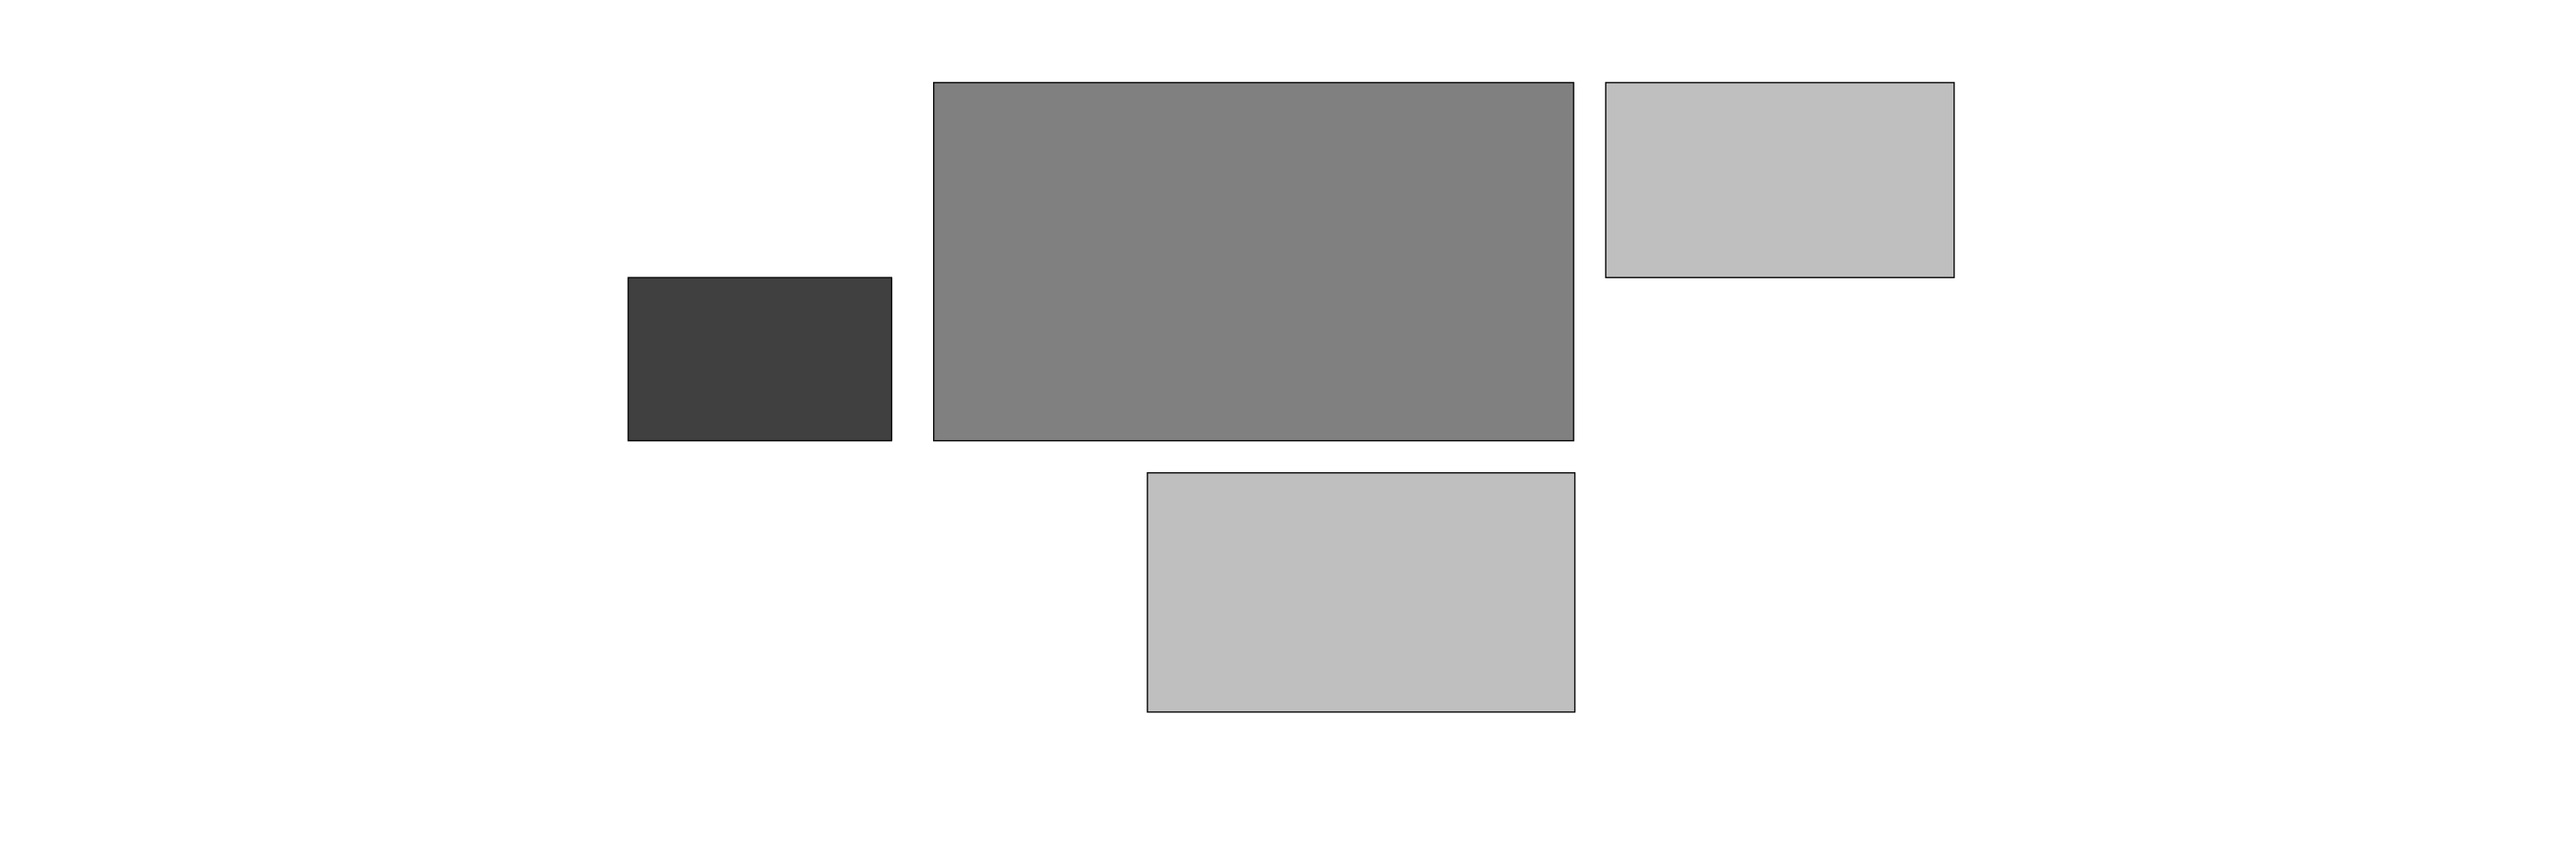
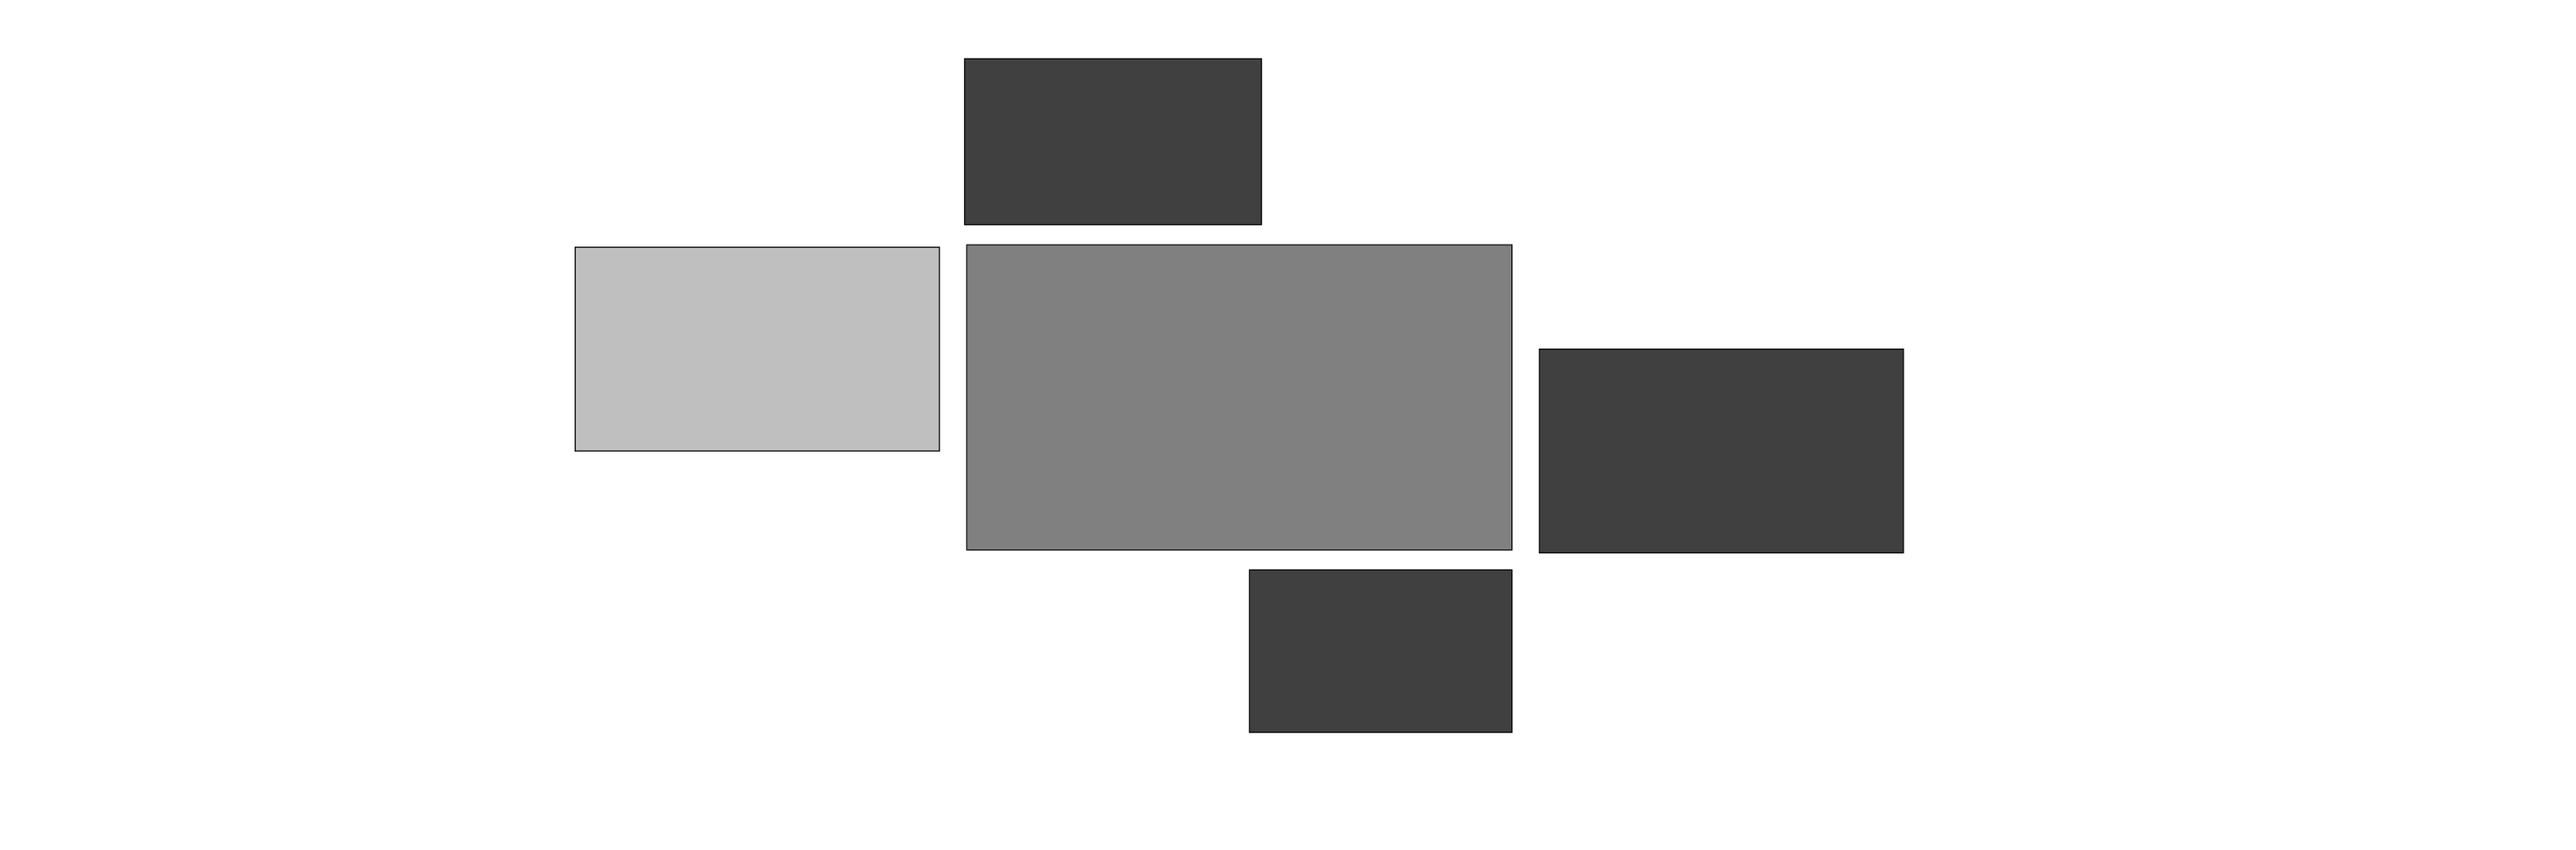
Filter OK

Changed region(s): [[0.2175, 0.0607, 0.7769, 0.8797]]

diff --git a/public/js/main.js b/public/js/main.js
@@ -100,7 +100,7 @@ if (module.hot) {(function () {  module.hot.accept()
 })()}
 },{"./views/card-view.vue":16,"./views/home-view.vue":17,"blueimp-md5":23,"jquery":49,"perfect-scrollbar":55,"underscore":91,"vue":94,"vue-hot-reload-api":93,"vueify/lib/insert-css":95}],2:[function(require,module,exports){
 var __vueify_insert__ = require("vueify/lib/insert-css")
-var __vueify_style__ = __vueify_insert__.insert("/* line 2, stdin */\n.filter {\n  width: 100%;\n  height: 100%; }\n  /* line 7, stdin */\n  .filter.filter-group-transition {\n    -webkit-transition: opacity .3s ease .4s, -webkit-transform .3s ease .4s;\n    transition: opacity .3s ease .4s, -webkit-transform .3s ease .4s;\n    transition: opacity .3s ease .4s, transform .3s ease .4s;\n    transition: opacity .3s ease .4s, transform .3s ease .4s, -webkit-transform .3s ease .4s;\n    -webkit-transform: translateY(0%);\n            transform: translateY(0%);\n    opacity: 1; }\n  /* line 12, stdin */\n  .filter.filter-group-enter, .filter.filter-group-leave {\n    opacity: 1;\n    -webkit-transform: translateY(100%);\n            transform: translateY(100%); }\n  /* line 16, stdin */\n  .filter.filter-group-leave {\n    -webkit-transition: opacity .1s linear, -webkit-transform .1s linear;\n    transition: opacity .1s linear, -webkit-transform .1s linear;\n    transition: opacity .1s linear, transform .1s linear;\n    transition: opacity .1s linear, transform .1s linear, -webkit-transform .1s linear; }\n")
+var __vueify_style__ = __vueify_insert__.insert("/* line 2, stdin */\n.filter {\n  width: 100%;\n  height: 100%;\n  /*background-image: url(../images/filter1.png);\n  background-size: 100%;*/ }\n  /* line 7, stdin */\n  .filter.filter-group-transition {\n    -webkit-transition: opacity .3s ease .4s, -webkit-transform .3s ease .4s;\n    transition: opacity .3s ease .4s, -webkit-transform .3s ease .4s;\n    transition: opacity .3s ease .4s, transform .3s ease .4s;\n    transition: opacity .3s ease .4s, transform .3s ease .4s, -webkit-transform .3s ease .4s;\n    -webkit-transform: translateY(0%);\n            transform: translateY(0%);\n    opacity: 1; }\n  /* line 12, stdin */\n  .filter.filter-group-enter, .filter.filter-group-leave {\n    opacity: 1;\n    -webkit-transform: translateY(100%);\n            transform: translateY(100%); }\n  /* line 16, stdin */\n  .filter.filter-group-leave {\n    -webkit-transition: opacity .1s linear, -webkit-transform .1s linear;\n    transition: opacity .1s linear, -webkit-transform .1s linear;\n    transition: opacity .1s linear, transform .1s linear;\n    transition: opacity .1s linear, transform .1s linear, -webkit-transform .1s linear; }\n")
 
 
 
@@ -134,31 +134,33 @@ var __vueify_style__ = __vueify_insert__.insert("/* line 2, stdin */\n.filter {\
 
 var $$$ = require('jquery')
 var marked = require('marked')
+var _ = require('underscore')
+
 module.exports = {
-  props: ['height', 'width', 'naves', 'playing'],
+  props: ['height', 'width', 'naves', 'playing', 'filter'],
   data: function(){
     return {
       medias: [],
       sizes: [{
-        height: 47,
-        x: 36.2,
-        y: 10.4
+        height: 39.8,
+        x: 37.5,
+        y: 31.2
       },{
-        height: 21,
-        x: 24.3,
-        y: 35
+        height: 26.4,
+        x: 22.3,
+        y: 31.5
       },{
-        height: 30.8,
-        x: 44.4,
-        y: 59.8
+        height: 21.2,
+        x: 48.4,
+        y: 72.7
       },{
-        height: 25,
-        x: 62.3,
-        y: 10.4
+        height: 26.7,
+        x: 59.6,
+        y: 44.4
       },{
-        height: 25,
-        x: 62.3,
-        y: 10.4
+        height: 22.5,
+        x: 37.4,
+        y: 7.3
       }]
     }
   },
@@ -169,23 +171,28 @@ module.exports = {
     
   },
   created: function () {
-    for (var i = 0; i < this.naves[5].media.length; i++) {
-      var med = {
-        id: this.naves[5].media[i].id + '-filter',
-        card: this.naves[5].media[i].id,
-        nav: this.naves[5].media[i].nav,
-        width: this.naves[5].media[i].width,
-        height: this.sizes[i].height,
-        x: this.sizes[i].x,
-        y: this.sizes[i].y,
-        imgs: [],
-        nome: "",
-        shadow: this.naves[5].media[i].shadow,
-        filter: true,
-        video: this.naves[5].media[i].video
+    for (var i = 0; i < this.naves.length; i++) {
+      if (this.naves[i].headers.nome === this.filter) {
+        for (var o = 0; o < this.naves[i].media.length; o++) {
+          var med = {
+            id: this.naves[i].media[o].id + '-filter',
+            card: this.naves[i].media[o].id,
+            nav: this.naves[i].media[o].nav,
+            width: this.naves[i].media[o].width,
+            height: this.sizes[o].height,
+            x: this.sizes[o].x,
+            y: this.sizes[o].y,
+            imgs: [],
+            nome: "",
+            shadow: this.naves[i].media[o].shadow,
+            filter: true,
+            video: this.naves[i].media[o].video
+          }
+          this.medias.push(med)
+        }
       }
-      this.medias.push(med)
     }
+    
   },
   attached: function () {
     
@@ -207,7 +214,7 @@ if (module.hot) {(function () {  module.hot.accept()
   hotAPI.install(require("vue"), true)
   if (!hotAPI.compatible) return
   module.hot.dispose(function () {
-    __vueify_insert__.cache["/* line 2, stdin */\n.filter {\n  width: 100%;\n  height: 100%; }\n  /* line 7, stdin */\n  .filter.filter-group-transition {\n    -webkit-transition: opacity .3s ease .4s, -webkit-transform .3s ease .4s;\n    transition: opacity .3s ease .4s, -webkit-transform .3s ease .4s;\n    transition: opacity .3s ease .4s, transform .3s ease .4s;\n    transition: opacity .3s ease .4s, transform .3s ease .4s, -webkit-transform .3s ease .4s;\n    -webkit-transform: translateY(0%);\n            transform: translateY(0%);\n    opacity: 1; }\n  /* line 12, stdin */\n  .filter.filter-group-enter, .filter.filter-group-leave {\n    opacity: 1;\n    -webkit-transform: translateY(100%);\n            transform: translateY(100%); }\n  /* line 16, stdin */\n  .filter.filter-group-leave {\n    -webkit-transition: opacity .1s linear, -webkit-transform .1s linear;\n    transition: opacity .1s linear, -webkit-transform .1s linear;\n    transition: opacity .1s linear, transform .1s linear;\n    transition: opacity .1s linear, transform .1s linear, -webkit-transform .1s linear; }\n"] = false
+    __vueify_insert__.cache["/* line 2, stdin */\n.filter {\n  width: 100%;\n  height: 100%;\n  /*background-image: url(../images/filter1.png);\n  background-size: 100%;*/ }\n  /* line 7, stdin */\n  .filter.filter-group-transition {\n    -webkit-transition: opacity .3s ease .4s, -webkit-transform .3s ease .4s;\n    transition: opacity .3s ease .4s, -webkit-transform .3s ease .4s;\n    transition: opacity .3s ease .4s, transform .3s ease .4s;\n    transition: opacity .3s ease .4s, transform .3s ease .4s, -webkit-transform .3s ease .4s;\n    -webkit-transform: translateY(0%);\n            transform: translateY(0%);\n    opacity: 1; }\n  /* line 12, stdin */\n  .filter.filter-group-enter, .filter.filter-group-leave {\n    opacity: 1;\n    -webkit-transform: translateY(100%);\n            transform: translateY(100%); }\n  /* line 16, stdin */\n  .filter.filter-group-leave {\n    -webkit-transition: opacity .1s linear, -webkit-transform .1s linear;\n    transition: opacity .1s linear, -webkit-transform .1s linear;\n    transition: opacity .1s linear, transform .1s linear;\n    transition: opacity .1s linear, transform .1s linear, -webkit-transform .1s linear; }\n"] = false
     document.head.removeChild(__vueify_style__)
   })
   if (!module.hot.data) {
@@ -216,7 +223,7 @@ if (module.hot) {(function () {  module.hot.accept()
     hotAPI.update("_v-7303ed86", module.exports, (typeof module.exports === "function" ? module.exports.options : module.exports).template)
   }
 })()}
-},{"./media.vue":9,"jquery":49,"marked":50,"vue":94,"vue-hot-reload-api":93,"vueify/lib/insert-css":95}],3:[function(require,module,exports){
+},{"./media.vue":9,"jquery":49,"marked":50,"underscore":91,"vue":94,"vue-hot-reload-api":93,"vueify/lib/insert-css":95}],3:[function(require,module,exports){
 var __vueify_insert__ = require("vueify/lib/insert-css")
 var __vueify_style__ = __vueify_insert__.insert("/* line 3, stdin */\n#menumodal {\n  position: absolute;\n  right: 8%;\n  top: 6%; }\n\n/* line 9, stdin */\nsvg path {\n  fill: #06303c;\n  opacity: 1;\n  -webkit-transition: opacity .2s;\n  transition: opacity .2s; }\n\n/* line 15, stdin */\nsvg:hover path {\n  opacity: .7; }\n\n/* line 21, stdin */\nbutton:disabled {\n  cursor: default; }\n  /* line 23, stdin */\n  button:disabled path {\n    fill: gray;\n    opacity: .8 !important; }\n\n/* line 28, stdin */\nbutton:focus {\n  outline: none; }\n\n/* line 34, stdin */\n.passo h3 {\n  margin-top: 0;\n  margin-bottom: 40px; }\n\n/* line 38, stdin */\n.passo strong {\n  font-family: 'treta';\n  font-size: 30px;\n  color: #06303c; }\n\n/* line 43, stdin */\n.passo p {\n  font-size: 14px;\n  font-weight: 600;\n  color: #06303c;\n  font-family: 'treta'; }\n\n/* line 51, stdin */\n.passo .mdl-textfield--floating-label.is-focused .mdl-textfield__label {\n  color: #d66843; }\n\n/* line 56, stdin */\n.passo .mdl-textfield__input {\n  border-bottom: 2px dotted rgba(0, 0, 0, 0.12); }\n\n/* line 60, stdin */\n.passo .mdl-textfield__label:after {\n  background-color: #d66843; }\n")
 
@@ -781,6 +788,7 @@ module.exports = {
   data: function(){
     return {
       filter: '',
+      filter_trans: false,
       media_cloud: [],
       width: 0,
       height: 0,
@@ -862,6 +870,12 @@ module.exports = {
         setTimeout( () => {
           this.container.scrollLeft = this.default_offset
         }, 100)
+      } else if (this.filter !== '' && this.filter !== nome) {
+        this.filter_trans = true
+        setTimeout( () => {
+          this.filter = nome
+          this.filter_trans = false
+        }, 200)
       } else {
         this.filter = nome
         this.scroll = false
@@ -901,7 +915,7 @@ module.exports = {
 }
 
 if (module.exports.__esModule) module.exports = module.exports.default
-;(typeof module.exports === "function"? module.exports.options: module.exports).template = "\n\n<div id=\"media_cloud\" class=\"mdl-grid\" style=\"padding: 0; position: relative; overflow: hidden;\" :style=\"{height: height+'px'}\" @wheel=\"onWheel\">\n  <div id=\"cloud_wraper\" class=\"rwd_content mdl-cell mdl-cell--12-col\" style=\"margin: 0; perspective: 1600px; height: 100%; position: absolute; overflow: hidden;\" :style=\"{width: width+'px'}\">\n\n    <in-media v-for=\"media in media_cloud\" transition=\"fade\" :media=\"media\" :height=\"height\" :width=\"width\" :playing.sync=\"playing\"></in-media>\n    <div v-if=\"filter !== ''\" is=\"filter-madureira\" transition=\"filter-group\" :naves=\"naves\" :width=\"width\" :height=\"height\" :playing.sync=\"playing\"></div>\n    <div v-if=\"playing !== null &amp;&amp; filter === ''\" style=\"width: 100%; height: 100%; background: rgba(0,0,0,.7); z-index: 5; position: absolute; left: 0; top: 0;\"></div>\n\n  </div>  \n</div>  \n\n"
+;(typeof module.exports === "function"? module.exports.options: module.exports).template = "\n\n<div id=\"media_cloud\" class=\"mdl-grid\" style=\"padding: 0; position: relative; overflow: hidden;\" :style=\"{height: height+'px'}\" @wheel=\"onWheel\">\n  <div id=\"cloud_wraper\" class=\"rwd_content mdl-cell mdl-cell--12-col\" style=\"margin: 0; perspective: 1600px; height: 100%; position: absolute; overflow: hidden;\" :style=\"{width: width+'px'}\">\n\n    <in-media v-for=\"media in media_cloud\" transition=\"fade\" :media=\"media\" :height=\"height\" :width=\"width\" :playing.sync=\"playing\"></in-media>\n    <div v-if=\"filter !== '' &amp;&amp; !filter_trans\" is=\"filter-madureira\" transition=\"filter-group\" :naves=\"naves\" :width=\"width\" :height=\"height\" :playing.sync=\"playing\" :filter=\"filter\"></div>\n    <div v-if=\"playing !== null &amp;&amp; filter === ''\" style=\"width: 100%; height: 100%; background: rgba(0,0,0,.7); z-index: 5; position: absolute; left: 0; top: 0;\"></div>\n\n  </div>  \n</div>  \n\n"
 if (module.hot) {(function () {  module.hot.accept()
   var hotAPI = require("vue-hot-reload-api")
   hotAPI.install(require("vue"), true)

diff --git a/app/vue/components/filter-madureira.vue b/app/vue/components/filter-madureira.vue
@@ -2,8 +2,8 @@
   .filter {
     width: 100%;
     height: 100%;
-    // background-image: url(../images/filter1.png);
-    // background-size: 100%;
+    /*background-image: url(../images/filter1.png);
+    background-size: 100%;*/
     &.filter-group-transition {
       transition: opacity .3s ease .4s, transform .3s ease .4s;
       transform: translateY(0%);
@@ -31,31 +31,33 @@
 <script>
   var $$$ = require('jquery')
   var marked = require('marked')
+  var _ = require('underscore')
+
   module.exports = {
-    props: ['height', 'width', 'naves', 'playing'],
+    props: ['height', 'width', 'naves', 'playing', 'filter'],
     data: function(){
       return {
         medias: [],
         sizes: [{
-          height: 47,
-          x: 36.2,
-          y: 10.4
+          height: 39.8,
+          x: 37.5,
+          y: 31.2
         },{
-          height: 21,
-          x: 24.3,
-          y: 35
+          height: 26.4,
+          x: 22.3,
+          y: 31.5
         },{
-          height: 30.8,
-          x: 44.4,
-          y: 59.8
+          height: 21.2,
+          x: 48.4,
+          y: 72.7
         },{
-          height: 25,
-          x: 62.3,
-          y: 10.4
+          height: 26.7,
+          x: 59.6,
+          y: 44.4
         },{
-          height: 25,
-          x: 62.3,
-          y: 10.4
+          height: 22.5,
+          x: 37.4,
+          y: 7.3
         }]
       }
     },
@@ -66,23 +68,28 @@
       
     },
     created: function () {
-      for (var i = 0; i < this.naves[5].media.length; i++) {
-        var med = {
-          id: this.naves[5].media[i].id + '-filter',
-          card: this.naves[5].media[i].id,
-          nav: this.naves[5].media[i].nav,
-          width: this.naves[5].media[i].width,
-          height: this.sizes[i].height,
-          x: this.sizes[i].x,
-          y: this.sizes[i].y,
-          imgs: [],
-          nome: "",
-          shadow: this.naves[5].media[i].shadow,
-          filter: true,
-          video: this.naves[5].media[i].video
+      for (var i = 0; i < this.naves.length; i++) {
+        if (this.naves[i].headers.nome === this.filter) {
+          for (var o = 0; o < this.naves[i].media.length; o++) {
+            var med = {
+              id: this.naves[i].media[o].id + '-filter',
+              card: this.naves[i].media[o].id,
+              nav: this.naves[i].media[o].nav,
+              width: this.naves[i].media[o].width,
+              height: this.sizes[o].height,
+              x: this.sizes[o].x,
+              y: this.sizes[o].y,
+              imgs: [],
+              nome: "",
+              shadow: this.naves[i].media[o].shadow,
+              filter: true,
+              video: this.naves[i].media[o].video
+            }
+            this.medias.push(med)
+          }
         }
-        this.medias.push(med)
       }
+      
     },
     attached: function () {
       

diff --git a/app/vue/components/media-cloud.vue b/app/vue/components/media-cloud.vue
@@ -8,7 +8,7 @@
     <div id="cloud_wraper" class="rwd_content mdl-cell mdl-cell--12-col" style="margin: 0; perspective: 1600px; height: 100%; position: absolute; overflow: hidden;" :style="{width: width+'px'}">
 
       <in-media v-for="media in media_cloud" transition="fade" :media="media" :height="height" :width="width" :playing.sync="playing"></in-media>
-      <div v-if="filter !== ''" is="filter-madureira" transition="filter-group" :naves="naves" :width="width" :height="height" :playing.sync="playing"></div>
+      <div v-if="filter !== '' && !filter_trans" is="filter-madureira" transition="filter-group" :naves="naves" :width="width" :height="height" :playing.sync="playing" :filter="filter"></div>
       <div v-if="playing !== null && filter === ''" style="width: 100%; height: 100%; background: rgba(0,0,0,.7); z-index: 5; position: absolute; left: 0; top: 0;"></div>
 
     </div>  
@@ -27,6 +27,7 @@
     data: function(){
       return {
         filter: '',
+        filter_trans: false,
         media_cloud: [],
         width: 0,
         height: 0,
@@ -108,6 +109,12 @@
           setTimeout( () => {
             this.container.scrollLeft = this.default_offset
           }, 100)
+        } else if (this.filter !== '' && this.filter !== nome) {
+          this.filter_trans = true
+          setTimeout( () => {
+            this.filter = nome
+            this.filter_trans = false
+          }, 200)
         } else {
           this.filter = nome
           this.scroll = false
